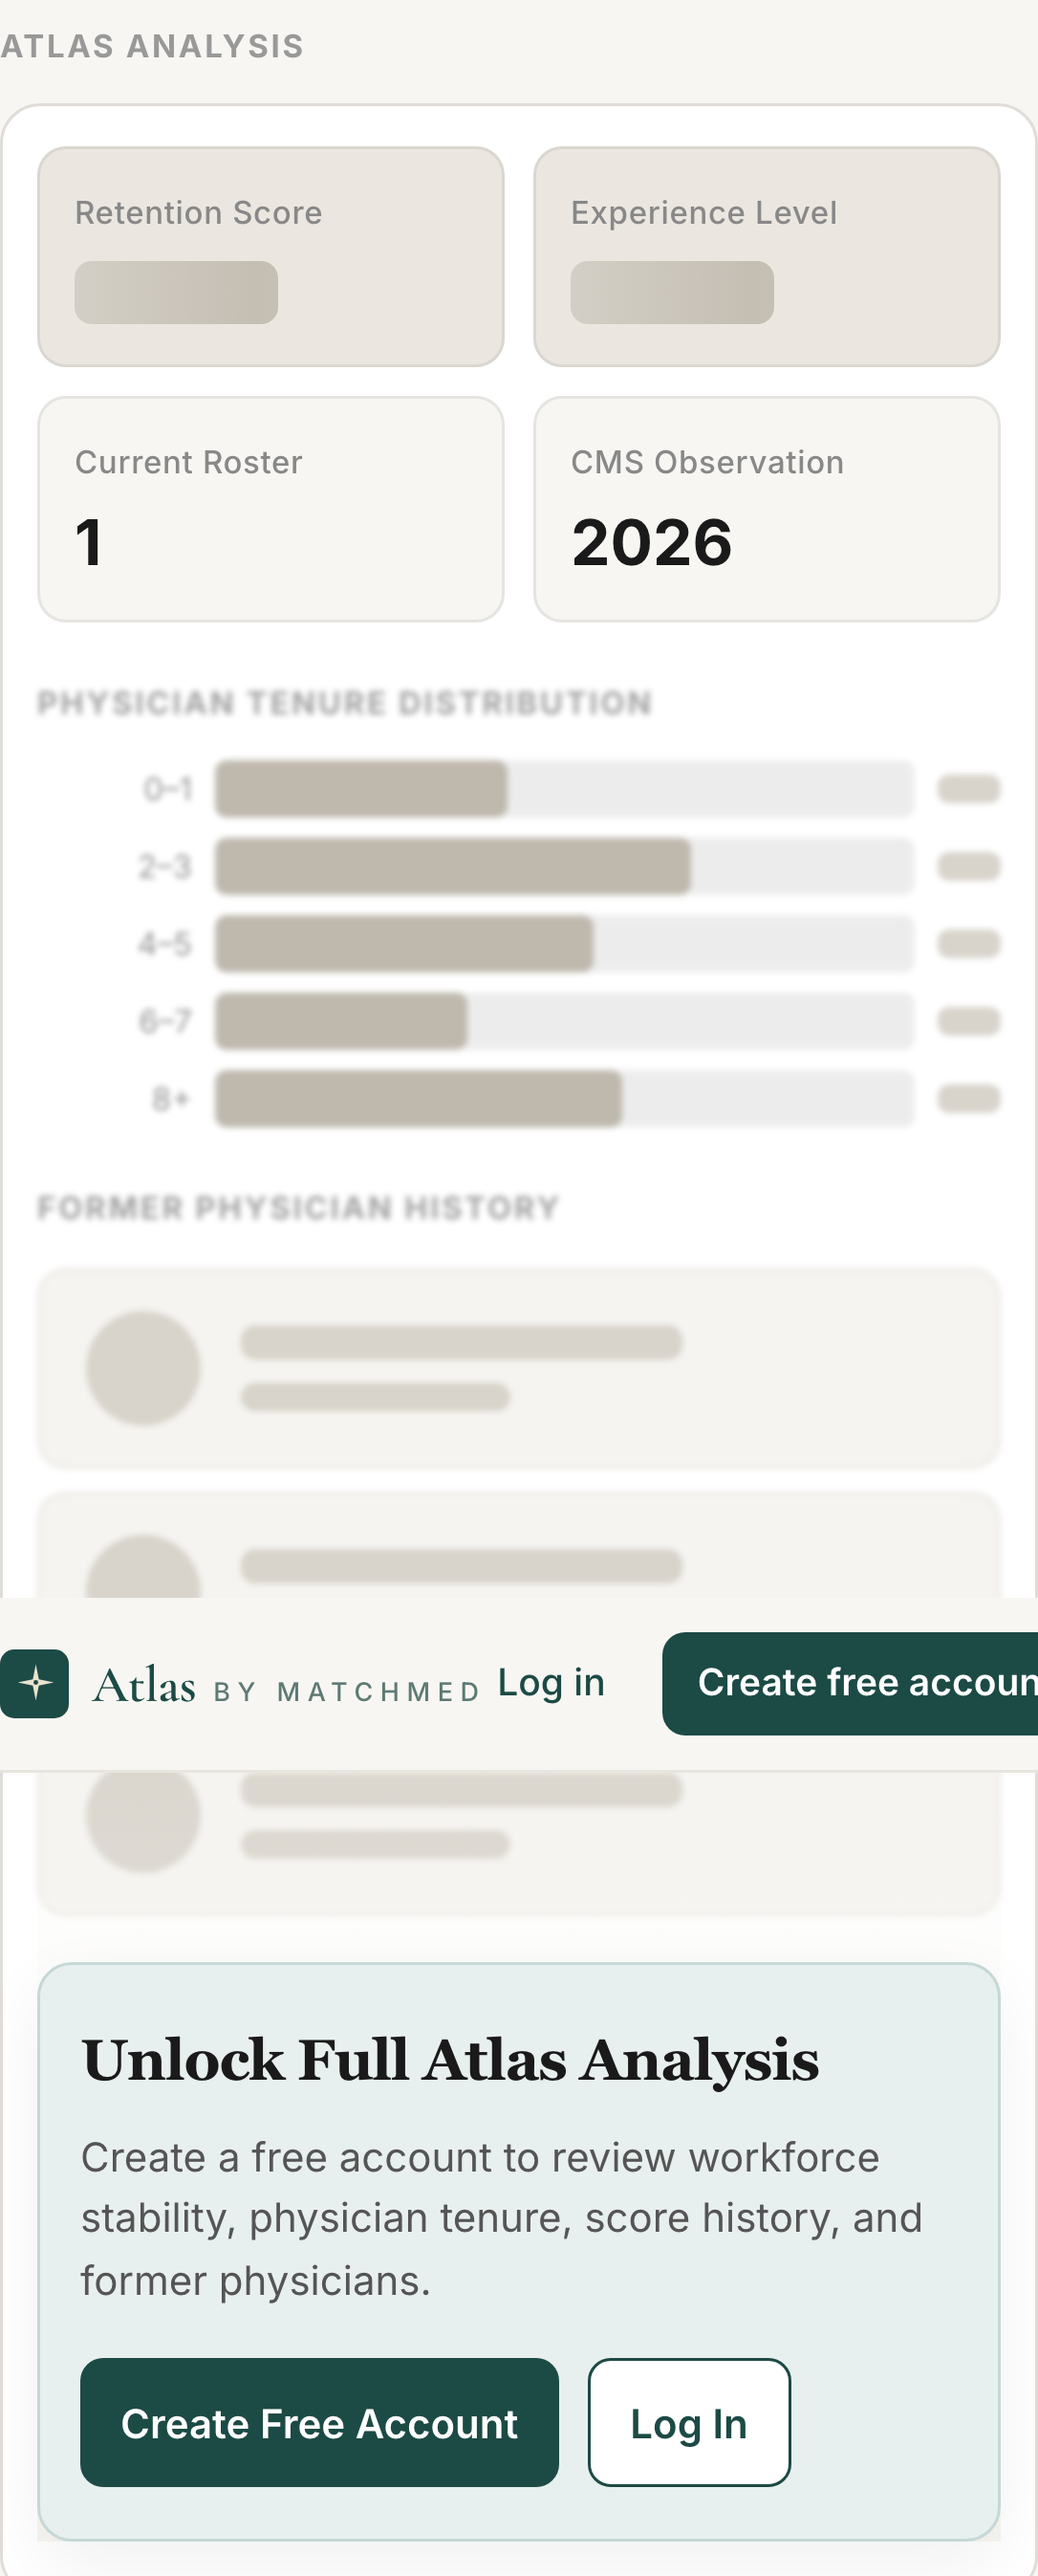
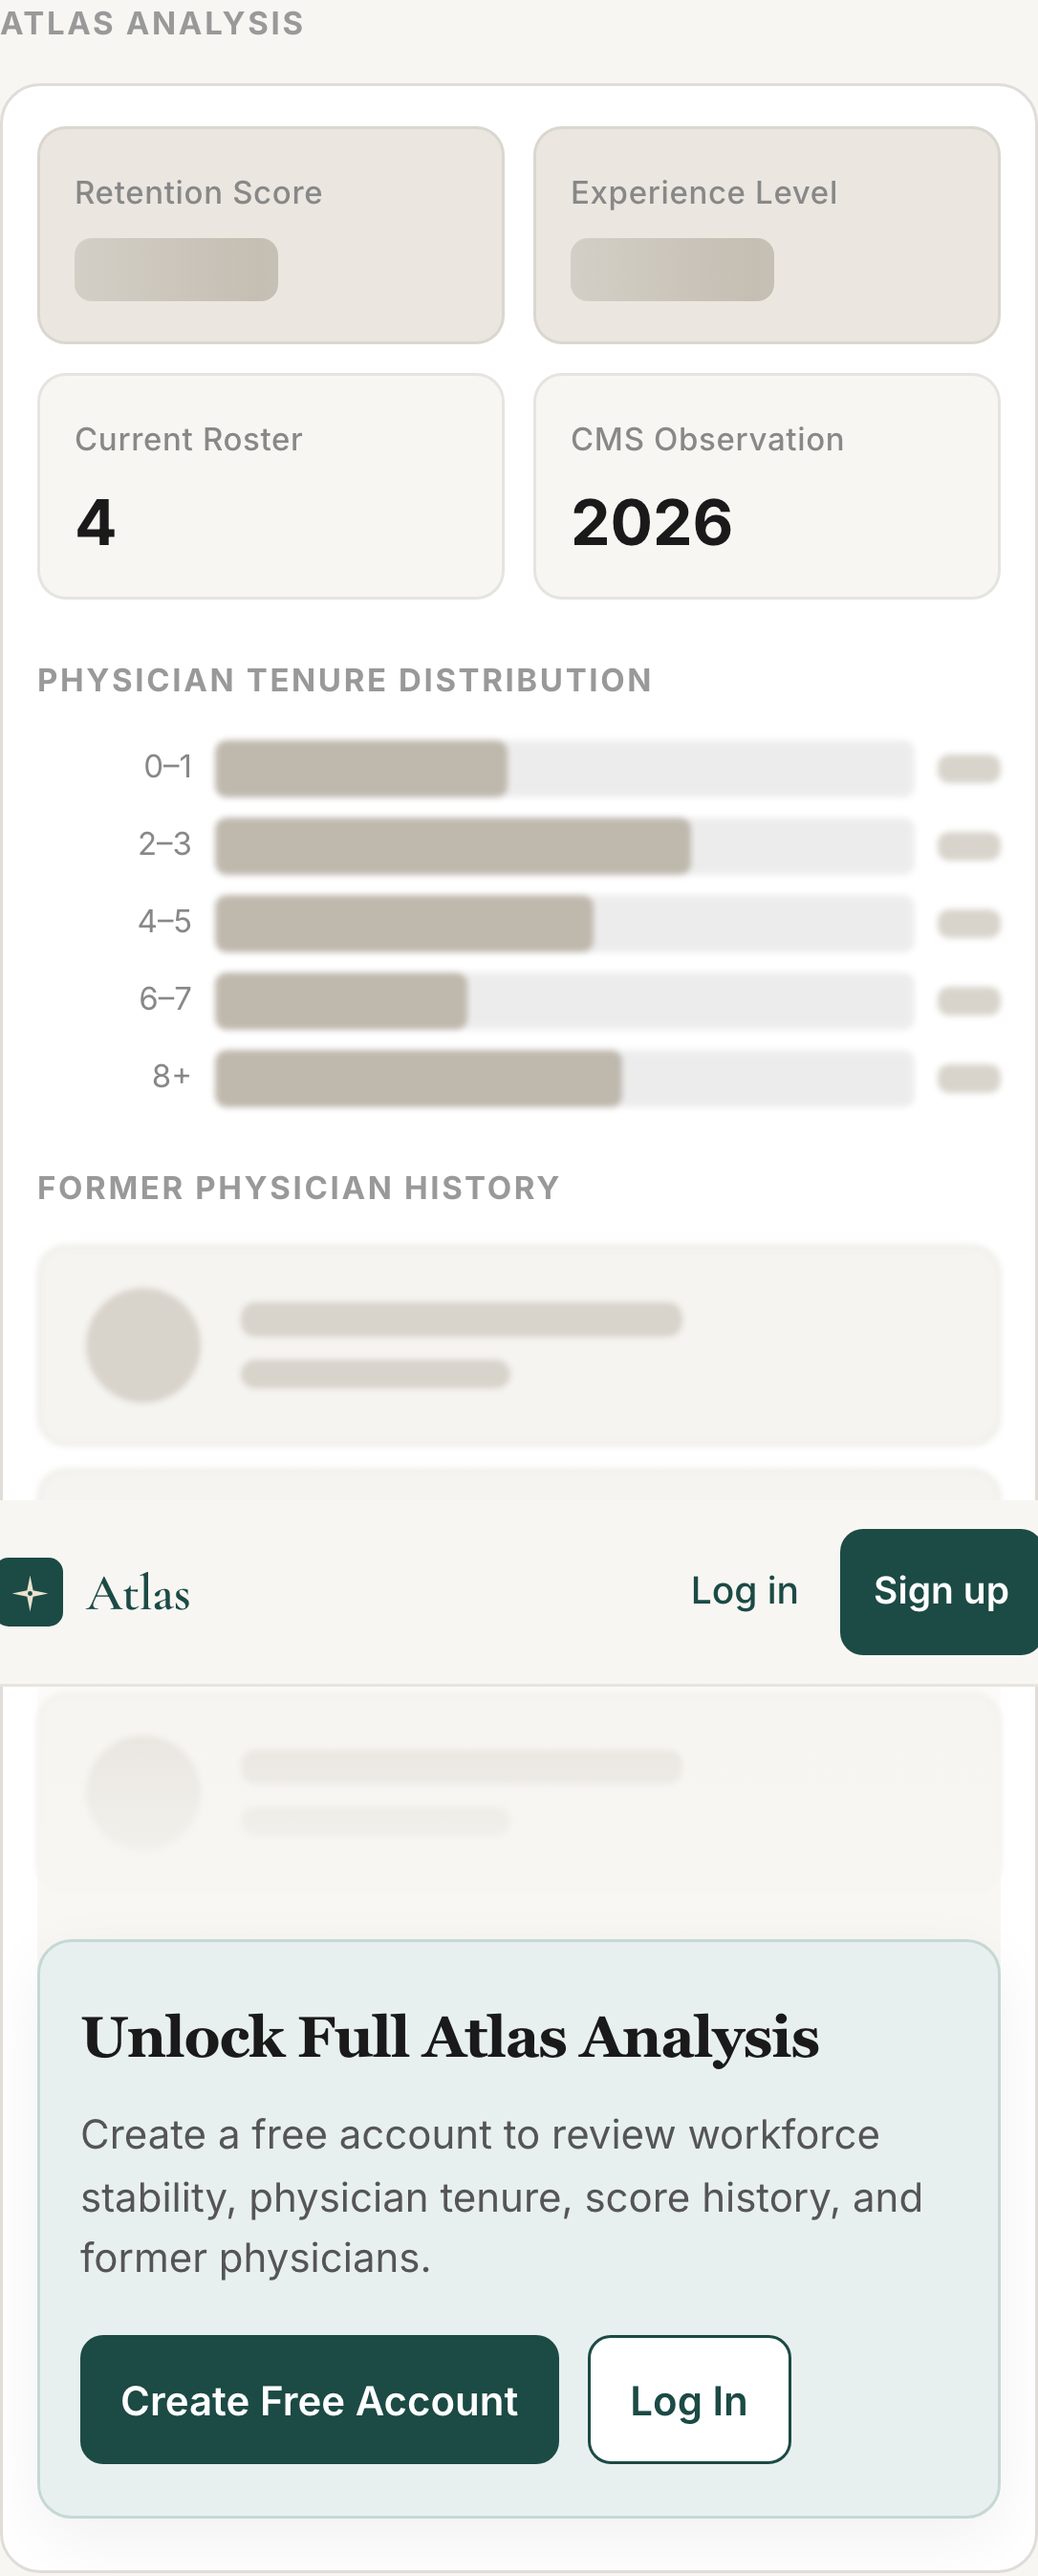
Collapse public multi-location lists and keep locked-analysis labels sharp.
Match the authenticated location accordion on anonymous practice pages, and blur only gated values so tenure and former-history headings stay readable.

diff --git a/src/components/PracticeDetailPublic.tsx b/src/components/PracticeDetailPublic.tsx
@@ -1,29 +1,13 @@
 import Link from 'next/link'
 import { createClient } from '@/lib/supabase-server'
 import {
-  formatPublicCityState,
-  formatPublicZip,
   publicGetPractice,
   publicGetPracticeLocations,
   publicGetPracticeRoster,
 } from '@/lib/public-search'
-import PracticeLocationsDisclaimer from '@/components/PracticeLocationsDisclaimer'
+import PublicPracticeLocations from '@/components/PublicPracticeLocations'
 import UnlockAnalysisCta from '@/components/UnlockAnalysisCta'
 import { nameToColor, getInitials } from '@/lib/utils'
-
-function formatLocationLine(loc: {
-  address: string | null
-  city: string | null
-  state: string | null
-  zip: string | null
-}): string {
-  const parts = [
-    (loc.address || '').trim(),
-    formatPublicCityState(loc.city, loc.state),
-    formatPublicZip(loc.zip),
-  ].filter(Boolean)
-  return parts.join(' · ')
-}
 
 /** Hard-coded neutral bar widths — not derived from any practice data. */
 const TENURE_PLACEHOLDER_WIDTHS = ['42%', '68%', '54%', '36%', '58%'] as const
@@ -118,25 +102,7 @@ export default async function PracticeDetailPublic({ id }: { id: string }) {
         </div>
       </div>
 
-      <section style={{ marginBottom: 28 }} aria-labelledby="public-locations-heading">
-        <h2 id="public-locations-heading" style={{ fontSize: 11, fontWeight: 700, color: '#999', textTransform: 'uppercase', letterSpacing: '.08em', marginBottom: 10 }}>
-          Locations
-        </h2>
-        {locations.length === 0 ? (
-          <p style={{ fontSize: 13, color: '#888' }}>No CMS billing locations listed.</p>
-        ) : (
-          <ul style={{ listStyle: 'none', margin: 0, padding: 0, display: 'grid', gap: 8 }}>
-            {locations.map(loc => (
-              <li key={loc.id} style={{ fontSize: 13, color: '#555', lineHeight: 1.45 }}>
-                {formatLocationLine(loc) || 'Location'}
-              </li>
-            ))}
-          </ul>
-        )}
-        <div style={{ marginTop: 8 }}>
-          <PracticeLocationsDisclaimer />
-        </div>
-      </section>
+      <PublicPracticeLocations locations={locations} />
 
       <section className="locked-analysis-module" aria-labelledby="locked-analysis-heading">
         <h2 id="locked-analysis-heading" className="locked-analysis-module-label">
@@ -162,13 +128,13 @@ export default async function PracticeDetailPublic({ id }: { id: string }) {
           </div>
 
           <div className="locked-gate-stack">
-            <div className="locked-analysis-preview" aria-hidden="true">
-              <div className="locked-tenure-block">
-                <div className="locked-section-subhead">Physician tenure distribution</div>
-                <div className="locked-tenure-bars">
-                  {(['0–1', '2–3', '4–5', '6–7', '8+'] as const).map((label, i) => (
-                    <div key={label} className="locked-tenure-row">
-                      <span className="locked-tenure-label">{label}</span>
+            <div className="locked-tenure-block">
+              <div className="locked-section-subhead">Physician tenure distribution</div>
+              <div className="locked-tenure-bars">
+                {(['0–1', '2–3', '4–5', '6–7', '8+'] as const).map((label, i) => (
+                  <div key={label} className="locked-tenure-row">
+                    <span className="locked-tenure-label">{label}</span>
+                    <div className="locked-tenure-gated" aria-hidden="true">
                       <div className="locked-tenure-track">
                         <div
                           className="locked-tenure-fill"
@@ -177,13 +143,15 @@ export default async function PracticeDetailPublic({ id }: { id: string }) {
                       </div>
                       <span className="locked-tenure-count" />
                     </div>
-                  ))}
-                </div>
+                  </div>
+                ))}
               </div>
+            </div>
 
-              <div className="locked-former-block">
-                <div className="locked-section-subhead">Former physician history</div>
-                <div className="locked-former-list">
+            <div className="locked-former-block">
+              <div className="locked-section-subhead">Former physician history</div>
+              <div className="locked-former-gated">
+                <div className="locked-former-list" aria-hidden="true">
                   {[0, 1, 2].map(i => (
                     <div key={i} className="locked-former-row">
                       <div className="locked-former-avatar" />
@@ -194,10 +162,9 @@ export default async function PracticeDetailPublic({ id }: { id: string }) {
                     </div>
                   ))}
                 </div>
+                <div className="locked-analysis-fade" aria-hidden="true" />
               </div>
             </div>
-
-            <div className="locked-analysis-fade" aria-hidden="true" />
 
             <UnlockAnalysisCta
               className="unlock-cta-overlay"

diff --git a/src/components/PublicPracticeLocations.tsx b/src/components/PublicPracticeLocations.tsx
@@ -1,0 +1,127 @@
+'use client'
+
+import { useId, useState } from 'react'
+import {
+  formatPublicCityState,
+  formatPublicZip,
+  type PublicPracticeLocation,
+} from '@/lib/public-search'
+import PracticeLocationsDisclaimer from '@/components/PracticeLocationsDisclaimer'
+
+function formatLocationLine(loc: PublicPracticeLocation): string {
+  const parts = [
+    (loc.address || '').trim(),
+    formatPublicCityState(loc.city, loc.state),
+    formatPublicZip(loc.zip),
+  ].filter(Boolean)
+  return parts.join(' · ')
+}
+
+export default function PublicPracticeLocations({
+  locations,
+}: {
+  locations: PublicPracticeLocation[]
+}) {
+  const [expanded, setExpanded] = useState(false)
+  const listId = useId()
+
+  return (
+    <section style={{ marginBottom: 28 }} aria-labelledby="public-locations-heading">
+      {locations.length <= 1 ? (
+        <>
+          <h2
+            id="public-locations-heading"
+            style={{
+              fontSize: 11,
+              fontWeight: 700,
+              color: '#999',
+              textTransform: 'uppercase',
+              letterSpacing: '.08em',
+              marginBottom: 10,
+            }}
+          >
+            Locations
+          </h2>
+          {locations.length === 0 ? (
+            <p style={{ fontSize: 13, color: '#888' }}>No CMS billing locations listed.</p>
+          ) : (
+            <p style={{ fontSize: 13, color: '#555', lineHeight: 1.45, margin: 0 }}>
+              {formatLocationLine(locations[0]) || 'Location'}
+            </p>
+          )}
+        </>
+      ) : (
+        <>
+          <button
+            type="button"
+            id="public-locations-heading"
+            aria-expanded={expanded}
+            aria-controls={listId}
+            onClick={() => setExpanded(open => !open)}
+            style={{
+              display: 'flex',
+              alignItems: 'center',
+              justifyContent: 'space-between',
+              width: '100%',
+              gap: 12,
+              background: 'none',
+              border: 'none',
+              padding: 0,
+              marginBottom: 10,
+              cursor: 'pointer',
+              textAlign: 'left',
+            }}
+          >
+            <span
+              style={{
+                fontSize: 11,
+                fontWeight: 700,
+                color: '#999',
+                textTransform: 'uppercase',
+                letterSpacing: '.08em',
+              }}
+            >
+              Locations ({locations.length})
+            </span>
+            <span
+              aria-hidden="true"
+              style={{
+                fontSize: 14,
+                color: '#1C4A45',
+                transform: expanded ? 'rotate(180deg)' : 'none',
+                transition: 'transform 0.2s',
+                lineHeight: 1,
+              }}
+            >
+              ▼
+            </span>
+          </button>
+
+          <ul
+            id={listId}
+            style={{
+              listStyle: 'none',
+              margin: 0,
+              padding: 0,
+              display: 'grid',
+              gap: 8,
+            }}
+          >
+            {locations.map((loc, i) => (
+              <li
+                key={loc.id}
+                hidden={!expanded && i > 0}
+                style={{ fontSize: 13, color: '#555', lineHeight: 1.45 }}
+              >
+                {formatLocationLine(loc) || 'Location'}
+              </li>
+            ))}
+          </ul>
+        </>
+      )}
+      <div style={{ marginTop: 8 }}>
+        <PracticeLocationsDisclaimer />
+      </div>
+    </section>
+  )
+}

diff --git a/src/app/globals.css b/src/app/globals.css
@@ -1069,12 +1069,32 @@ a { color: inherit; text-decoration: none; }
 }
 
 .locked-analysis-preview {
-  /* Soft enough to read row structure; padding gives CTA overlap room without burying rows. */
   filter: blur(1.05px);
   opacity: 0.9;
   padding-bottom: 72px;
   pointer-events: none;
   user-select: none;
+}
+
+.locked-tenure-gated,
+.locked-former-gated .locked-former-list {
+  filter: blur(1.05px);
+  opacity: 0.9;
+  pointer-events: none;
+  user-select: none;
+}
+
+.locked-tenure-gated {
+  display: flex;
+  align-items: center;
+  gap: 8px;
+  flex: 1;
+  min-width: 0;
+}
+
+.locked-former-gated {
+  position: relative;
+  padding-bottom: 72px;
 }
 
 .locked-analysis-fade {
@@ -1091,6 +1111,10 @@ a { color: inherit; text-decoration: none; }
     #F7F6F2 100%
   );
   pointer-events: none;
+}
+
+.locked-former-gated .locked-analysis-fade {
+  height: 72%;
 }
 
 .unlock-cta.unlock-cta-overlay {
@@ -1345,7 +1369,8 @@ a { color: inherit; text-decoration: none; }
     padding: 8px 12px;
   }
 
-  .locked-analysis-preview {
+  .locked-analysis-preview,
+  .locked-former-gated {
     padding-bottom: 36px;
   }
 
